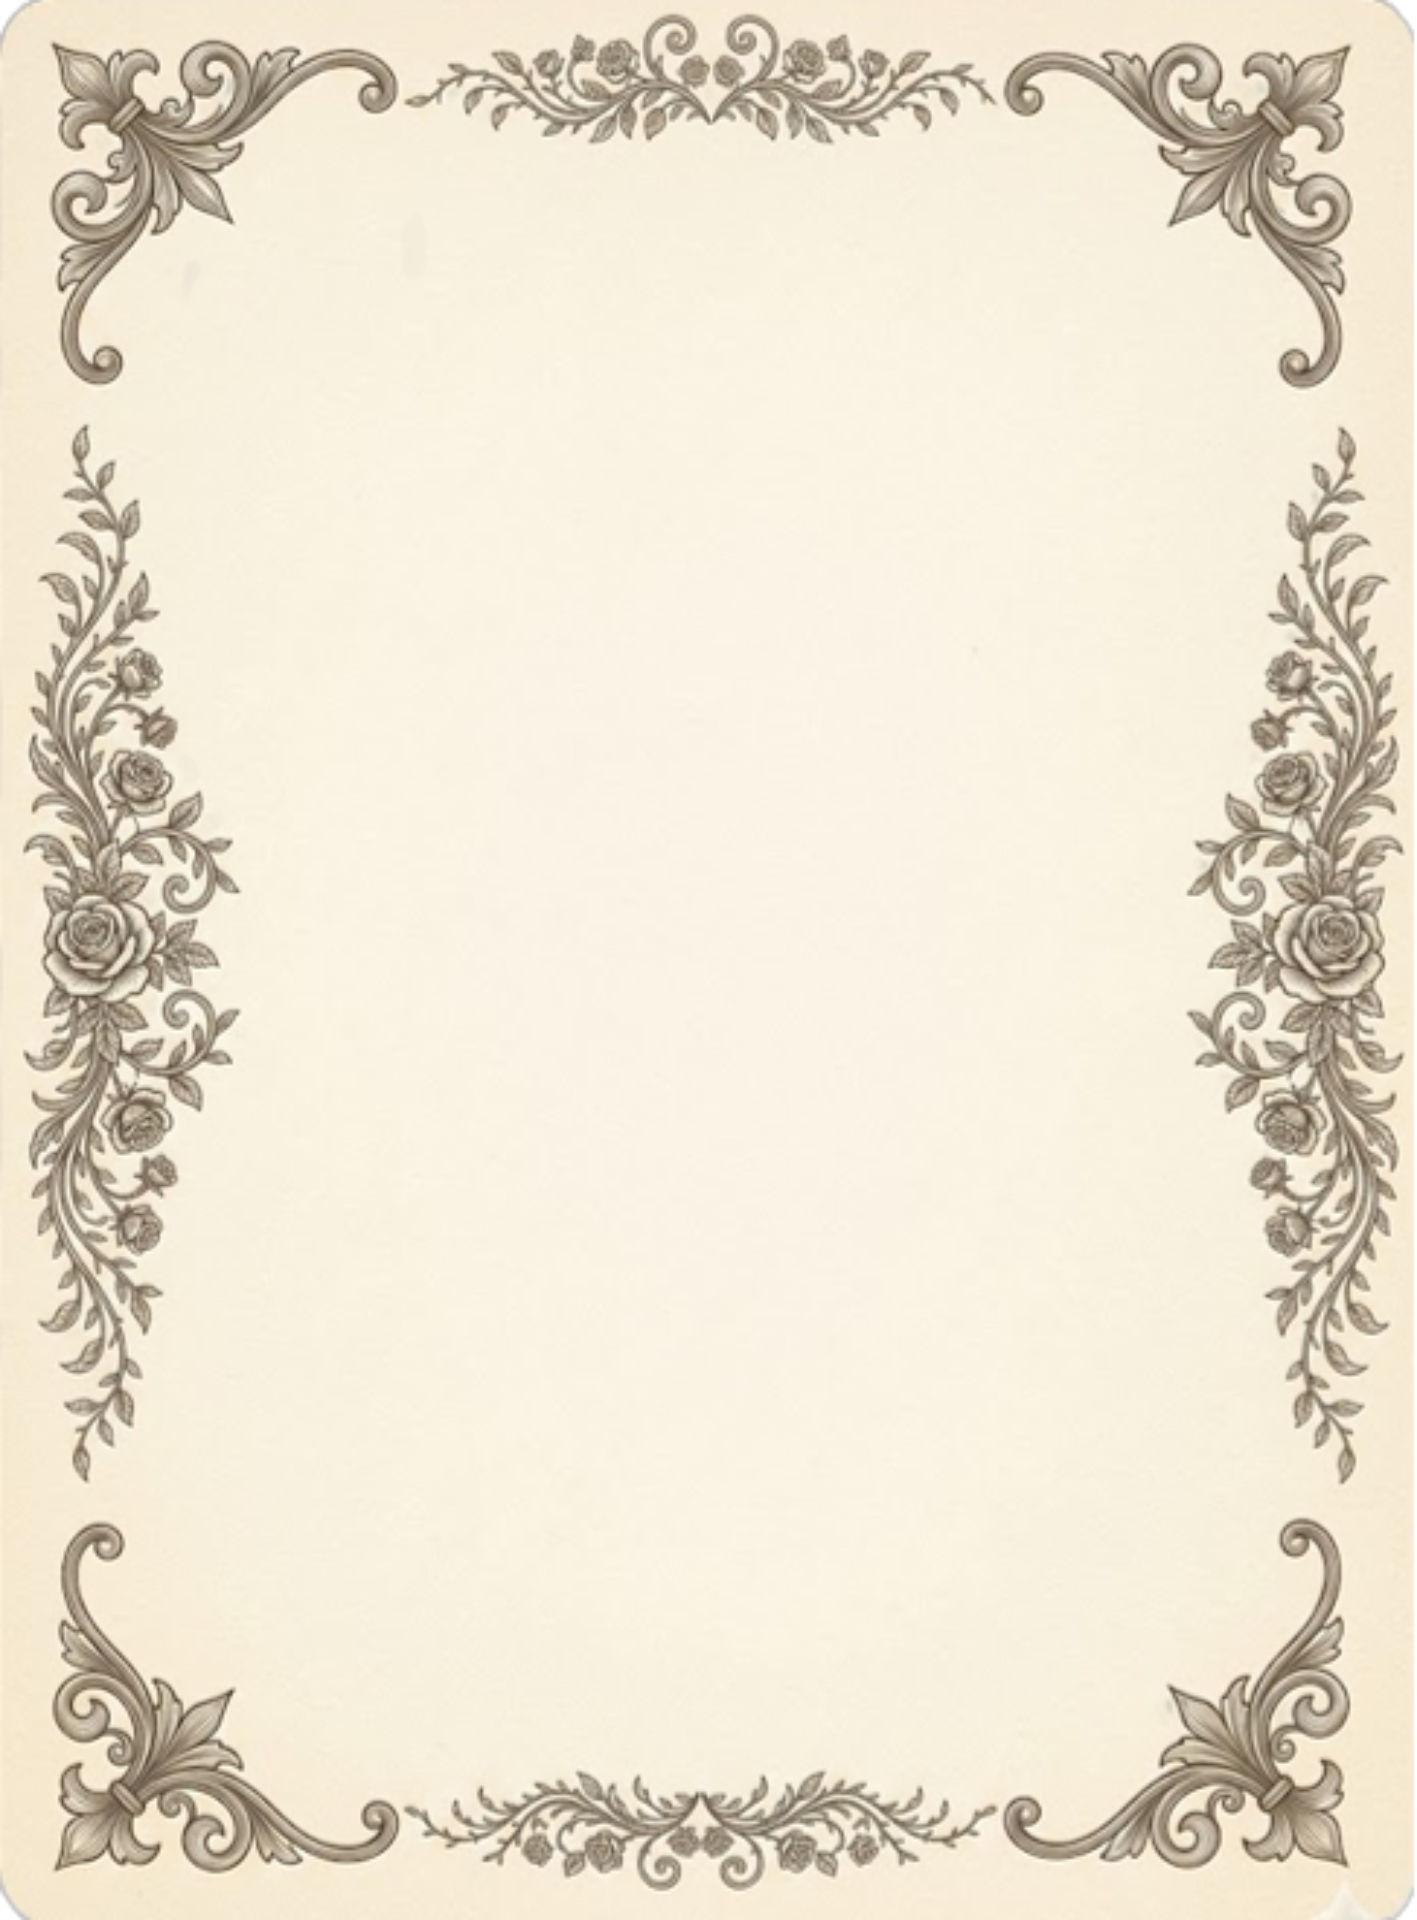
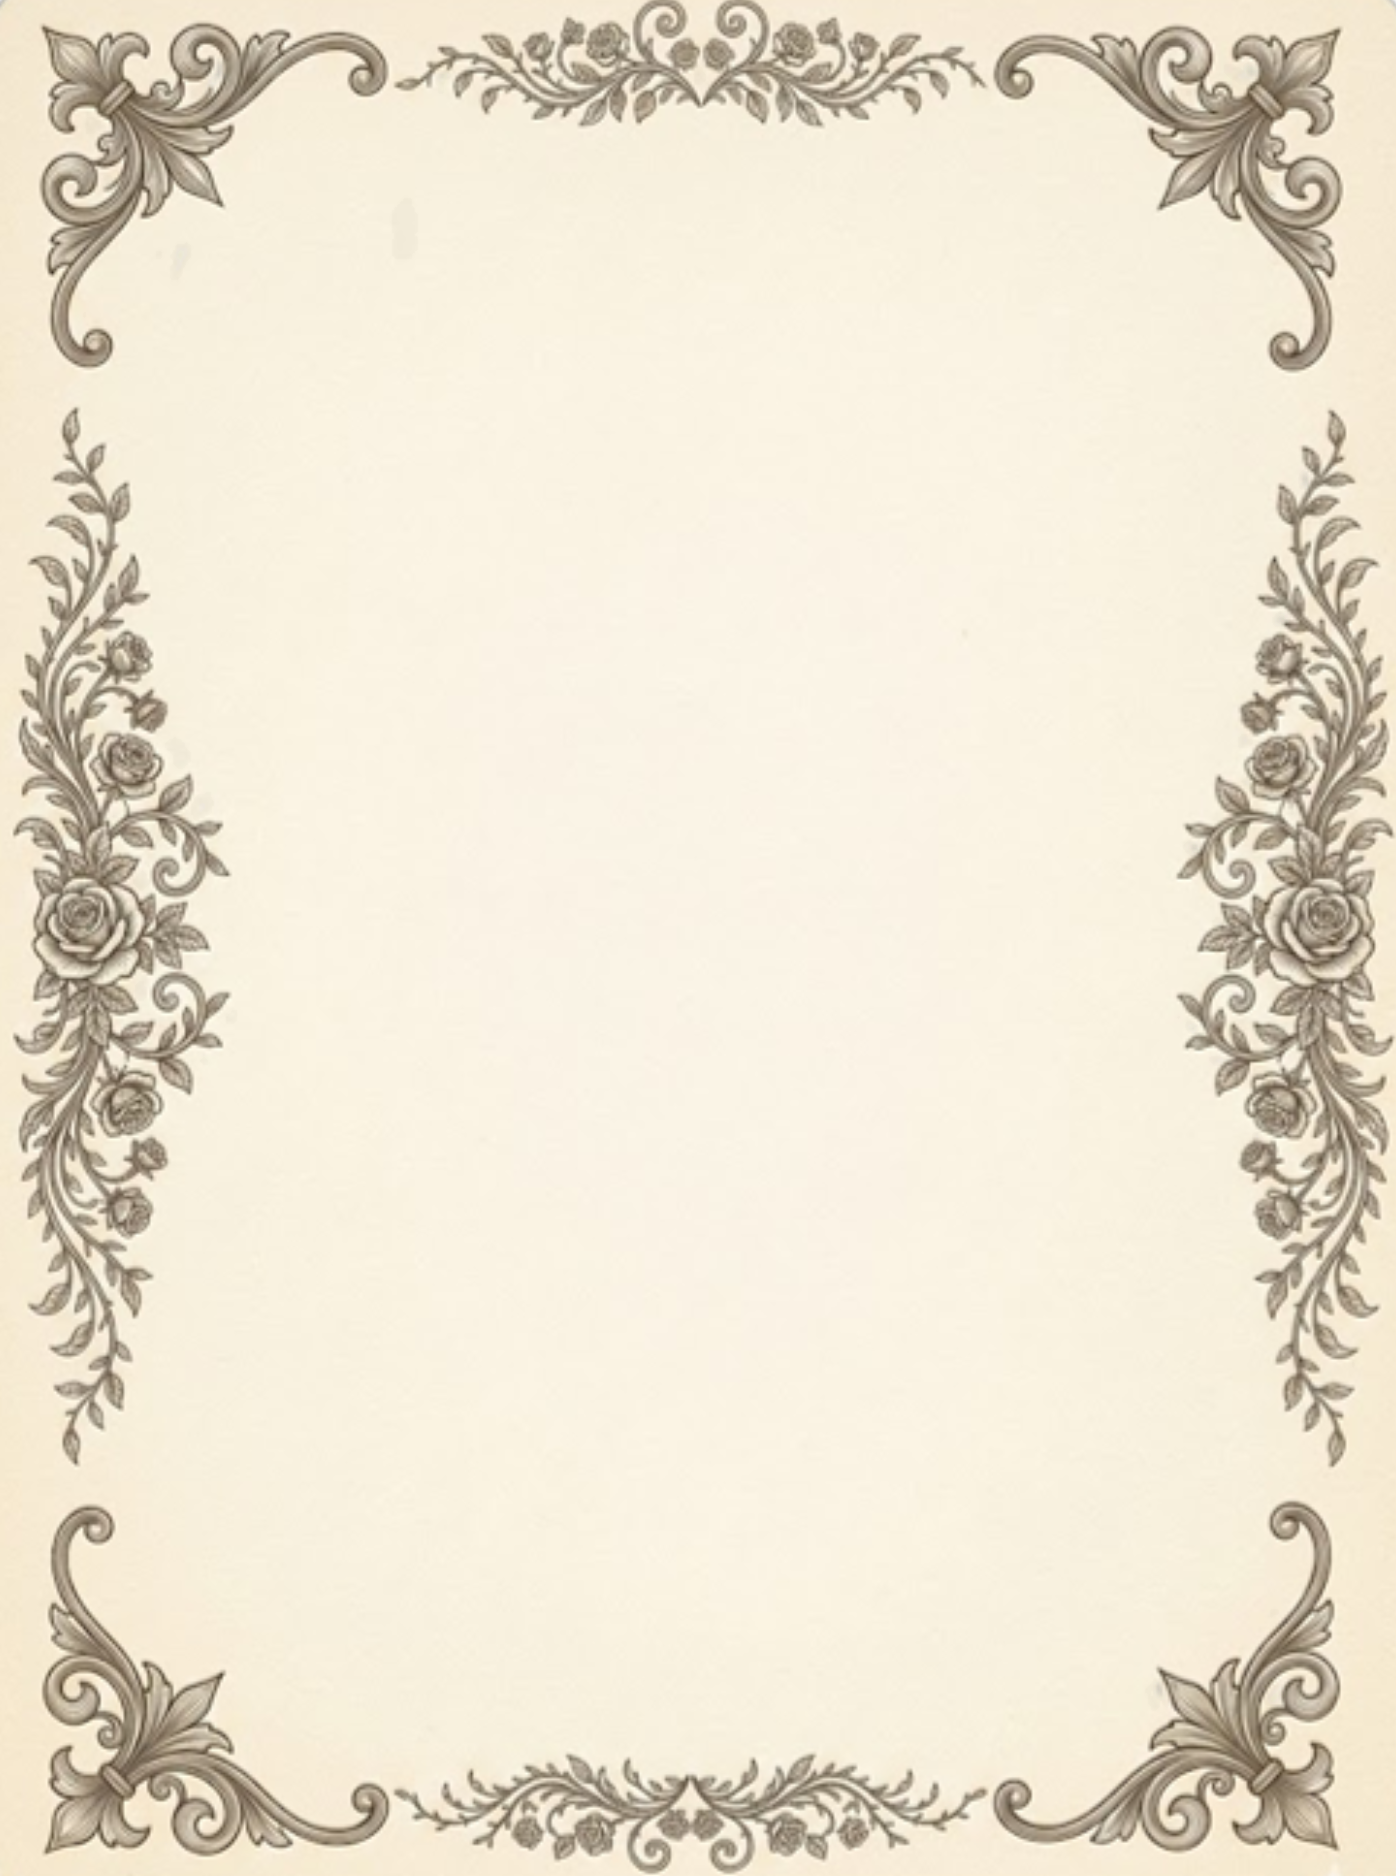
Add files via upload

Changed region(s): [[0.0, 0.0, 1.0, 1.0], [0.0, 0.9893, 0.0308, 1.0]]

diff --git a/style.css b/style.css
@@ -1,13 +1,144 @@
+/* =========================================
+   HTML + BODY
+========================================= */
+
 body {
   margin: 0;
+
   width: 100%;
+
   height: 100%;
-  background: red;
+
+  overflow: hidden;
+
+  background: #dfe3ea;
 }
+
+body {
+  margin: 0;
+
+  min-height: 100vh;
+
+  display: flex;
+
+  justify-content: center;
+
+  align-items: center;
+}
+
+/* =========================================
+   BODY
+========================================= */
+
+/* =========================================
+   APP
+========================================= */
+
 .app {
+  width: 100%;
+
+  height: 100%;
+
+  position: relative;
+
+  overflow: hidden;
+}
+
+/* =========================================
+   BACKGROUND
+========================================= */
+
+.background {
   position: fixed;
+
+  inset: 0;
+
+  width: 100%;
+
+  height: 100%;
+
+  background-image: url("./M.png");
+
+  background-size: 100% 100%;
+
+  background-position: center;
+
+  background-repeat: no-repeat;
+
+  z-index: 0;
+}
+
+/* =========================================
+   GIỚI HẠN CHIỀU NGANG TRÊN PC
+========================================= */
+
+@media (min-width: 768px) {
+  .app {
+    width: 430px;
+
+    height: 100%;
+
+    border-radius: 20px;
+
+    overflow: hidden;
+
+    box-shadow: 0 0 25px rgba(0, 0, 0, 0.2);
+  }
+
+  .background {
+    width: 430px;
+
+    left: 50%;
+
+    transform: translateX(-50%);
+  }
+}
+.phongbi {
+  scale: 0.5;
+  position: relative;
+  top: 40px;
+  width: 100vw;
+  max-width: 430px;
+
+  aspect-ratio: 1.4 / 1;
+}
+
+.lap,
+.thantren,
+.thanduoi,
+.haiben {
+  position: absolute;
+
+  top: 0;
+  left: 0;
+
   width: 100%;
   height: 100%;
-  background-image: url(./M.png);
-  background-size: 100% 100%;
+}
+
+.lap img,
+.thantren img,
+.thanduoi img,
+.haiben img {
+  width: 100%;
+  height: 100%;
+
+  display: block;
+
+  object-fit: contain;
+}
+.thanduoi {
+  z-index: 1;
+}
+
+.haiben {
+  z-index: 2;
+}
+
+.thantren {
+  z-index: 2;
+}
+
+.lap {
+  z-index: 4;
 }

diff --git a/index.html b/index.html
@@ -6,10 +6,23 @@
     <link rel="stylesheet" href="style.css" />
     <title>Document</title>
   </head>
-
   <body>
     <div class="app">
       <div class="background"></div>
+      <div class="phongbi">
+        <div class="lap">
+          <img src="./lap.png" alt="" />
+        </div>
+        <div class="thantren">
+          <img src="./thantren.png" alt="" />
+        </div>
+        <div class="thanduoi">
+          <img src="./thanduoi.png" alt="" />
+        </div>
+        <div class="haiben">
+          <img src="./haibenphongbi.png" alt="" />
+        </div>
+      </div>
     </div>
   </body>
 </html>